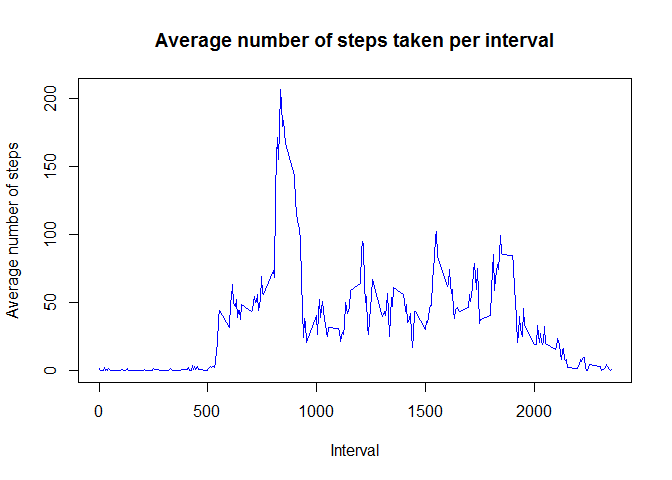
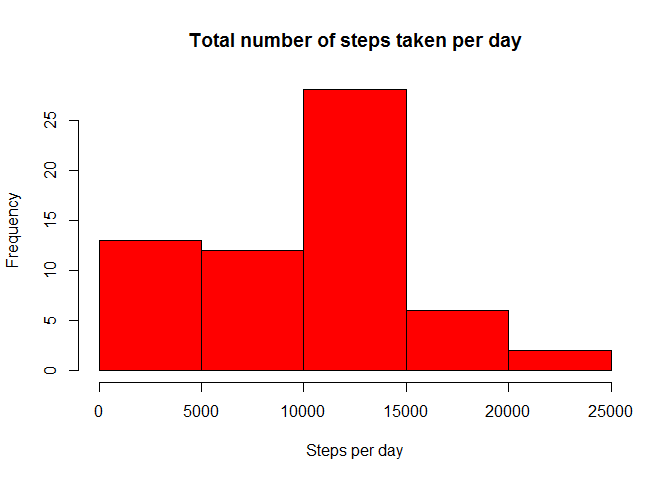
Final Draft

diff --git a/PA1_template.html b/PA1_template.html
@@ -66,60 +66,72 @@ img {
 
 <div id="loading-and-preprocessing-the-data" class="section level2">
 <h2>Loading and preprocessing the data</h2>
-<pre class="r"><code>data &lt;-read.csv (&quot;activity/activity.csv&quot;)
-data$date &lt;- as.Date(data$date)</code></pre>
+<p>1- Loading Data</p>
+<pre class="r"><code>data &lt;-read.csv (&quot;activity/activity.csv&quot;)</code></pre>
+<p>2- Processing the date in the data</p>
+<pre class="r"><code>data$date &lt;- as.Date(data$date)</code></pre>
 </div>
 <div id="what-is-mean-total-number-of-steps-taken-per-day" class="section level2">
 <h2>What is mean total number of steps taken per day?</h2>
 <pre class="r"><code>library(dplyr)</code></pre>
-<pre><code>## 
-## Attaching package: 'dplyr'
-## 
-## The following object is masked from 'package:stats':
-## 
-##     filter
-## 
-## The following objects are masked from 'package:base':
-## 
-##     intersect, setdiff, setequal, union</code></pre>
-<pre class="r"><code>steps_taken_per_day &lt;- summarise(group_by(data, date),total_steps=sum(steps,na.rm=TRUE))
-hist(steps_taken_per_day$total_steps,main='Total number of steps taken per day',xlab='Steps per day',col='red')</code></pre>
+<p>1- Calculate the total number of steps taken per day</p>
+<pre class="r"><code>steps_taken_per_day &lt;- summarise(group_by(data, date),total_steps=sum(steps, na.rm=TRUE))</code></pre>
+<p>2- Histogram of the total number of steps taken each day</p>
+<pre class="r"><code>hist(steps_taken_per_day$total_steps,main='Total number of steps taken per day',xlab='Steps per day',col='red')</code></pre>
[1 lines of base64/hex data omitted]
-<pre class="r"><code>mean(steps_taken_per_day$total_steps,na.rm=TRUE)</code></pre>
-<pre><code>## [1] 9354.23</code></pre>
-<pre class="r"><code>median(steps_taken_per_day$total_steps,na.rm=TRUE)</code></pre>
-<pre><code>## [1] 10395</code></pre>
+<p>3- Calculate and report the mean and median of the total number of steps taken per day</p>
+<pre class="r"><code>mean1 &lt;- mean(steps_taken_per_day$total_steps,na.rm=TRUE);pmean1 &lt;- formatC(mean1,format='d')
+median1 &lt;- median(steps_taken_per_day$total_steps,na.rm=TRUE);pmedian1 &lt;- formatC(median1,format='d')</code></pre>
+<ul>
+<li>The <strong>mean</strong> the total number of steps taken per day is <strong>9354</strong>.</li>
+<li>The <strong>median</strong> the total number of steps taken per dayis <strong>10395</strong>.</li>
+</ul>
 </div>
 <div id="what-is-the-average-daily-activity-pattern" class="section level2">
 <h2>What is the average daily activity pattern?</h2>
+<p>1- Make a time series plot (i.e. type = “l”) of the 5-minute interval (x-axis) and the average number of steps taken, averaged across all days (y-axis)</p>
 <pre class="r"><code>average_steps_per_interval &lt;- summarise(group_by(data,interval),average_per_interval=mean(steps,na.rm=TRUE))
 with(average_steps_per_interval,plot(interval,average_per_interval,type = &quot;l&quot;,main='Average number of steps taken per interval',xlab='Interval',ylab='Average number of steps',col='blue'))</code></pre>
[1 lines of base64/hex data omitted]
-<pre class="r"><code>with(average_steps_per_interval,interval[which.max(average_per_interval)])</code></pre>
-<pre><code>## [1] 835</code></pre>
+<p>2- Which 5-minute interval, on average across all the days in the dataset, contains the maximum number of steps?</p>
+<pre class="r"><code>maximum &lt;- with(average_steps_per_interval,interval[which.max(average_per_interval)])</code></pre>
+<p>The interval which contains the <strong>maximum</strong> number of steps is <strong>835</strong>.</p>
 </div>
 <div id="imputing-missing-values" class="section level2">
 <h2>Imputing missing values</h2>
-<p>Strategy: NA values will be replaced by the mean value with the mean for 5-minute interval.</p>
-<pre class="r"><code>sum(is.na(data$steps)|is.na(data$date)|is.na(data$interval))</code></pre>
-<pre><code>## [1] 2304</code></pre>
-<pre class="r"><code>data_all &lt;- inner_join(data,average_steps_per_interval)</code></pre>
-<pre><code>## Joining by: &quot;interval&quot;</code></pre>
-<pre class="r"><code>data_filled &lt;- mutate(data_all,steps=ifelse(is.na(steps),average_per_interval,steps))
-data_filled &lt;- select(data_filled,-average_per_interval)
-data_filled &lt;- summarise(group_by(data_filled, date),total_steps=sum(steps,na.rm=TRUE))
+<p>1- Calculate and report the total number of missing values in the dataset</p>
+<pre class="r"><code>missing_values  &lt;-  sum(is.na(data$steps))</code></pre>
+<p>Total number of <strong>missing values</strong> in the dataset is <strong>2304</strong>.</p>
+<p>2- <strong>Strategy</strong>: NA values will be replaced with the mean value for each corresponding 5-minute interval.</p>
+<p>3- Create a new dataset that is equal to the original dataset but with the missing data filled in.</p>
+<pre class="r"><code>data_all &lt;- inner_join(data,average_steps_per_interval)
+data_filled &lt;- mutate(data_all,steps=ifelse(is.na(steps),average_per_interval,steps))
+data_filled &lt;- select(data_filled,-average_per_interval)</code></pre>
+<p>4- Make a histogram of the total number of steps taken each day and Calculate and report the mean and median total number of steps taken per day.</p>
+<pre class="r"><code>data_filled &lt;- summarise(group_by(data_filled, date),total_steps=sum(steps))
 hist(data_filled$total_steps,main='Total number of steps taken per day',xlab='Steps per day',col='green')</code></pre>
[1 lines of base64/hex data omitted]
-<pre class="r"><code>mean(data_filled$total_steps,na.rm=TRUE)</code></pre>
-<pre><code>## [1] 10766.19</code></pre>
-<pre class="r"><code>median(data_filled$total_steps,na.rm=TRUE)</code></pre>
-<pre><code>## [1] 10766.19</code></pre>
+<pre class="r"><code>mean2 &lt;- mean(data_filled$total_steps,na.rm=TRUE);pmean2 &lt;- formatC(mean2,format='d')
+median2 &lt;- median(data_filled$total_steps,na.rm=TRUE);pmedian2 &lt;- formatC(median2,format='d')</code></pre>
+<ul>
+<li>The <strong>mean</strong> total number of steps taken per day is <strong>10766</strong>.</li>
+<li>The <strong>median</strong> the total number of steps taken per dayis <strong>10766</strong>.</li>
+</ul>
+<p>After inputting missing data, besides mean and median are equal, estimates of total number of steps show positive differences:</p>
+<pre class="r"><code>mean_difference &lt;- mean2 - mean1;pmean_difference &lt;- formatC(mean_difference,format='d')
+median_difference &lt;- median2 - median1;pmedian_difference &lt;- formatC(median_difference,format='d')</code></pre>
+<ul>
+<li><strong>Mean</strong> difference is <strong>1411</strong>.</li>
+<li><strong>Median</strong> difference is <strong>371</strong>.</li>
+</ul>
 </div>
 <div id="are-there-differences-in-activity-patterns-between-weekdays-and-weekends" class="section level2">
 <h2>Are there differences in activity patterns between weekdays and weekends?</h2>
+<p>1- Create a new factor variable in the dataset with two levels - “weekday” and “weekend” indicating whether a given date is a weekday or weekend day.</p>
 <pre class="r"><code>library(lubridate)
-data_weekly&lt;-mutate(data,day=as.factor(ifelse(wday(date) %in% c(1,7),&quot;weekend&quot;,&quot;weekday&quot;)))
-data_day_interval&lt;- summarise(group_by(data_weekly,day,interval), average=mean(steps,na.rm=TRUE))
+data_weekly&lt;-mutate(data,day=as.factor(ifelse(wday(date) %in% c(1,7),&quot;weekend&quot;,&quot;weekday&quot;)))</code></pre>
+<p>2- Make a panel plot containing a time series plot (i.e. type = “l”) of the 5-minute interval (x-axis) and the average number of steps taken, averaged across all weekday days or weekend days (y-axis).</p>
+<pre class="r"><code>data_day_interval&lt;- summarise(group_by(data_weekly,day,interval), average=mean(steps,na.rm=TRUE))
 library(lattice)
 with (data_day_interval, 
       xyplot(average ~ interval|day, type=&quot;l&quot;, 

diff --git a/PA1_template.md b/PA1_template.md
@@ -3,117 +3,122 @@
 
 ## Loading and preprocessing the data
 
+1- Loading Data
 
 ```r
 data <-read.csv ("activity/activity.csv")
+```
+
+2- Processing the date in the data
+
+```r
 data$date <- as.Date(data$date)
 ```
 
 ## What is mean total number of steps taken per day?
 
+
 ```r
 library(dplyr)
 ```
-
-```
-## 
-## Attaching package: 'dplyr'
-## 
-## The following object is masked from 'package:stats':
-## 
-##     filter
-## 
-## The following objects are masked from 'package:base':
-## 
-##     intersect, setdiff, setequal, union
-```
+1- Calculate the total number of steps taken per day
 
 ```r
-steps_taken_per_day <- summarise(group_by(data, date),total_steps=sum(steps,na.rm=TRUE))
+steps_taken_per_day <- summarise(group_by(data, date),total_steps=sum(steps, na.rm=TRUE))
+```
+
+2- Histogram of the total number of steps taken each day
+
+```r
 hist(steps_taken_per_day$total_steps,main='Total number of steps taken per day',xlab='Steps per day',col='red')
 ```
 
-![](PA1_template_files/figure-html/unnamed-chunk-2-1.png) 
+![](PA1_template_files/figure-html/unnamed-chunk-5-1.png) 
+  
+3- Calculate and report the mean and median of the total number of steps taken per day
 
 ```r
-mean(steps_taken_per_day$total_steps,na.rm=TRUE)
+mean1 <- mean(steps_taken_per_day$total_steps,na.rm=TRUE);pmean1 <- formatC(mean1,format='d')
+median1 <- median(steps_taken_per_day$total_steps,na.rm=TRUE);pmedian1 <- formatC(median1,format='d')
 ```
+- The **mean** the total number of steps taken per day is **9354**. 
+- The **median** the total number of steps taken per dayis **10395**.
 
-```
-## [1] 9354.23
-```
-
-```r
-median(steps_taken_per_day$total_steps,na.rm=TRUE)
-```
-
-```
-## [1] 10395
-```
 ## What is the average daily activity pattern?
+
+1- Make a time series plot (i.e. type = "l") of the 5-minute interval (x-axis) and the average number of steps taken, averaged across all days (y-axis)
 
 ```r
 average_steps_per_interval <- summarise(group_by(data,interval),average_per_interval=mean(steps,na.rm=TRUE))
 with(average_steps_per_interval,plot(interval,average_per_interval,type = "l",main='Average number of steps taken per interval',xlab='Interval',ylab='Average number of steps',col='blue'))
 ```
 
-![](PA1_template_files/figure-html/unnamed-chunk-3-1.png) 
+![](PA1_template_files/figure-html/unnamed-chunk-7-1.png) 
+
+2- Which 5-minute interval, on average across all the days in the dataset, contains the maximum number of steps?
 
 ```r
-with(average_steps_per_interval,interval[which.max(average_per_interval)])
+maximum <- with(average_steps_per_interval,interval[which.max(average_per_interval)])
 ```
+The interval which contains the **maximum** number of steps is **835**.
 
-```
-## [1] 835
-```
 ## Imputing missing values
-Strategy: NA values will be replaced by the mean value with the mean for 5-minute interval.
+
+1- Calculate and report the total number of missing values in the dataset
 
 ```r
-sum(is.na(data$steps)|is.na(data$date)|is.na(data$interval))
+missing_values  <-  sum(is.na(data$steps))
 ```
+Total number of **missing values** in the dataset is **2304**.
 
-```
-## [1] 2304
-```
+2- **Strategy**: NA values will be replaced with the mean value for each corresponding 5-minute interval.
+
+3- Create a new dataset that is equal to the original dataset but with the missing data filled in.
 
 ```r
 data_all <- inner_join(data,average_steps_per_interval)
-```
-
-```
-## Joining by: "interval"
-```
-
-```r
 data_filled <- mutate(data_all,steps=ifelse(is.na(steps),average_per_interval,steps))
 data_filled <- select(data_filled,-average_per_interval)
-data_filled <- summarise(group_by(data_filled, date),total_steps=sum(steps,na.rm=TRUE))
+```
+
+4- Make a histogram of the total number of steps taken each day and Calculate and report the mean and median total number of steps taken per day.
+
+```r
+data_filled <- summarise(group_by(data_filled, date),total_steps=sum(steps))
 hist(data_filled$total_steps,main='Total number of steps taken per day',xlab='Steps per day',col='green')
 ```
 
-![](PA1_template_files/figure-html/unnamed-chunk-4-1.png) 
+![](PA1_template_files/figure-html/unnamed-chunk-11-1.png) 
 
 ```r
-mean(data_filled$total_steps,na.rm=TRUE)
+mean2 <- mean(data_filled$total_steps,na.rm=TRUE);pmean2 <- formatC(mean2,format='d')
+median2 <- median(data_filled$total_steps,na.rm=TRUE);pmedian2 <- formatC(median2,format='d')
 ```
+- The **mean** total number of steps taken per day is **10766**. 
+- The **median** the total number of steps taken per dayis **10766**.
 
-```
-## [1] 10766.19
-```
+After inputting missing data, besides mean and median are equal, estimates of total number of steps show positive differences:
+
 
 ```r
-median(data_filled$total_steps,na.rm=TRUE)
+mean_difference <- mean2 - mean1;pmean_difference <- formatC(mean_difference,format='d')
+median_difference <- median2 - median1;pmedian_difference <- formatC(median_difference,format='d')
 ```
+- **Mean** difference is **1411**.
+- **Median** difference is **371**.
 
-```
-## [1] 10766.19
-```
 ## Are there differences in activity patterns between weekdays and weekends?
+
+1- Create a new factor variable in the dataset with two levels - "weekday" and "weekend" indicating whether a given date is a weekday or weekend day.
 
 ```r
 library(lubridate)
 data_weekly<-mutate(data,day=as.factor(ifelse(wday(date) %in% c(1,7),"weekend","weekday")))
+```
+
+2- Make a panel plot containing a time series plot (i.e. type = "l") of the 5-minute interval (x-axis) and the average number of steps taken, averaged across all weekday days or weekend days (y-axis).
+
+```r
 data_day_interval<- summarise(group_by(data_weekly,day,interval), average=mean(steps,na.rm=TRUE))
 library(lattice)
 with (data_day_interval, 
@@ -121,6 +126,4 @@ with (data_day_interval,
              ylab="Number of steps",xlab='Interval',layout=c(1,2)))
 ```
 
-![](PA1_template_files/figure-html/unnamed-chunk-5-1.png) 
-
-
+![](PA1_template_files/figure-html/unnamed-chunk-14-1.png) 
